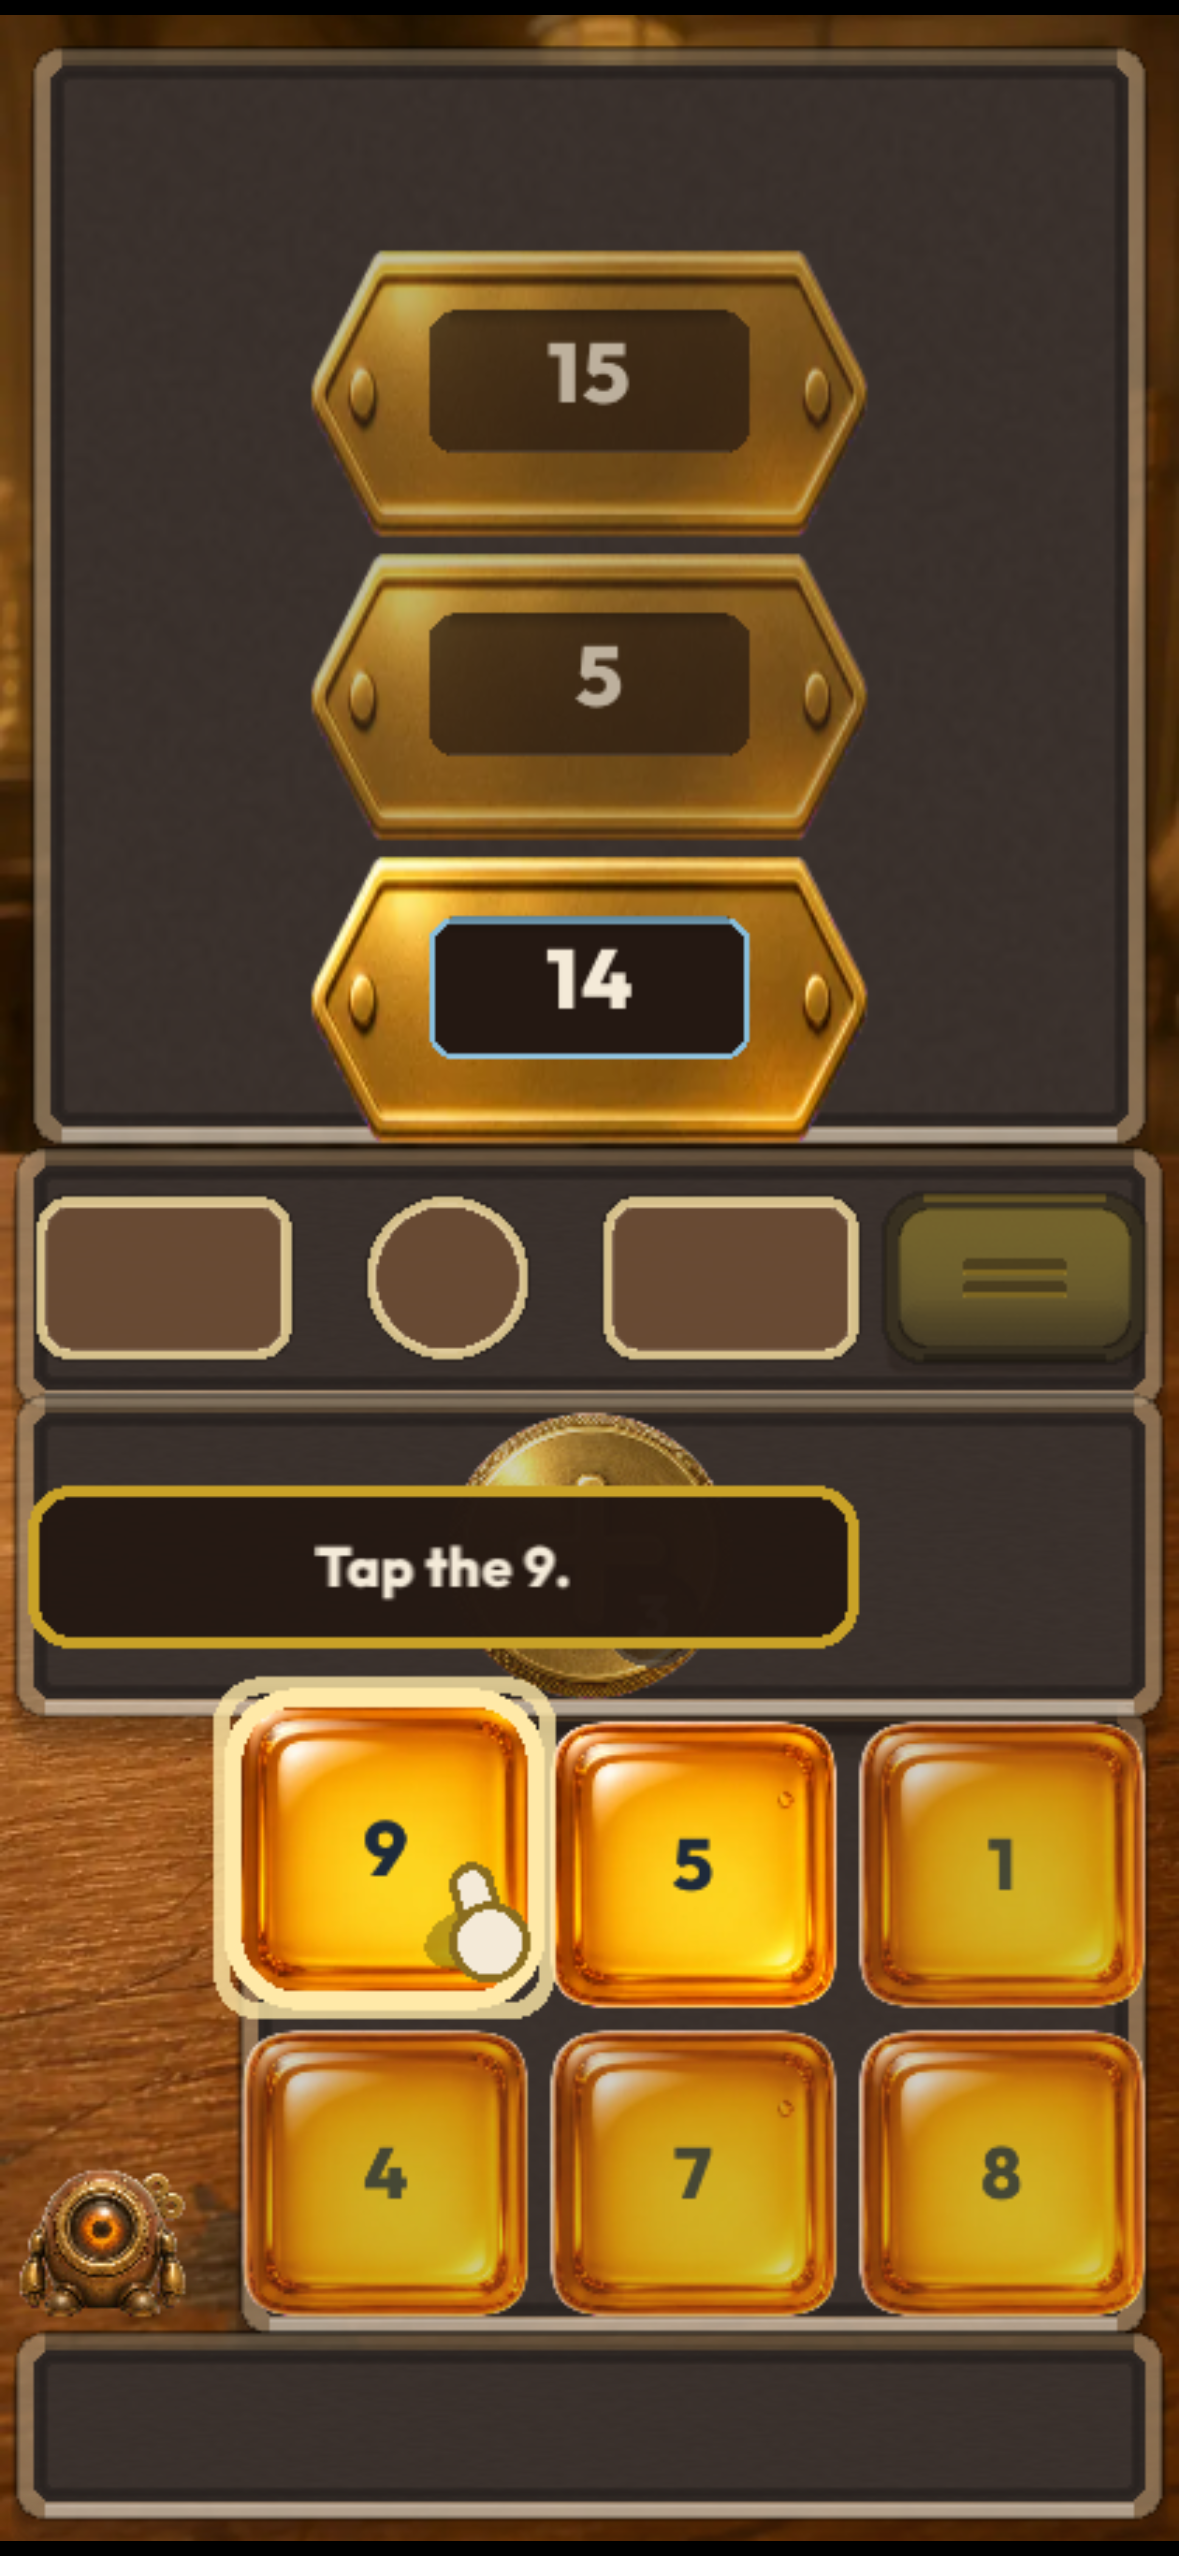
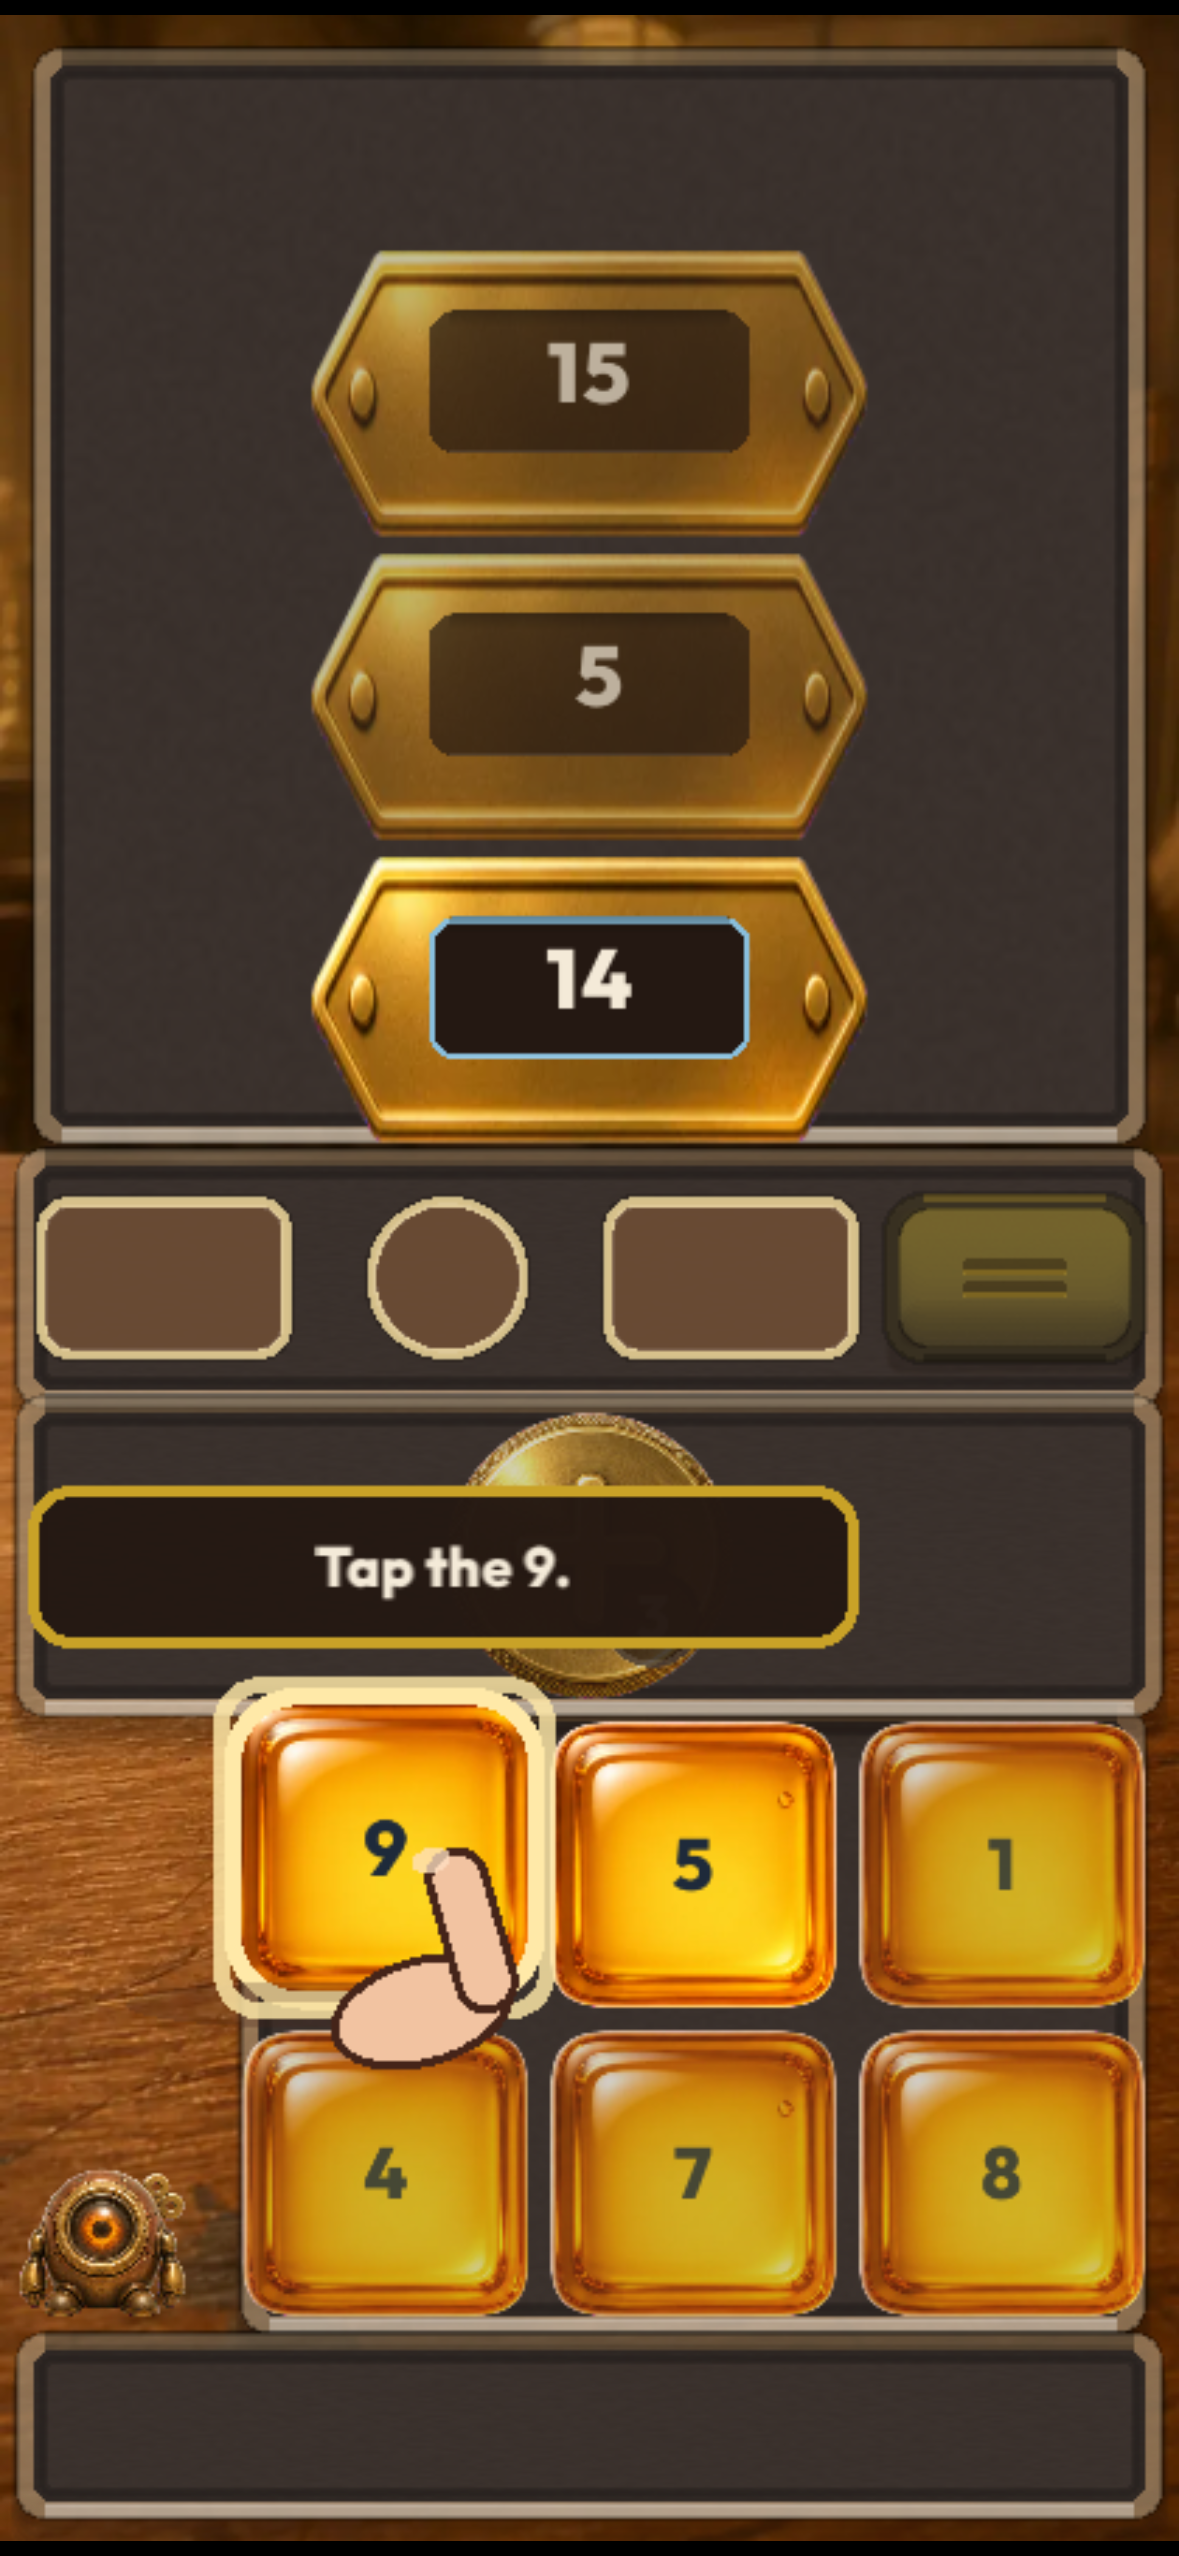
Polish FTUE hand marker and contact shadow

Changed region(s): [[0.2137, 0.7109, 0.458, 0.8345]]

diff --git a/src/renderer/renderer.ts b/src/renderer/renderer.ts
@@ -1264,13 +1264,7 @@ export class Renderer {
       const index = s.tiles.findIndex((tile) => tile.id === id);
       if (index < 0) continue;
       const slot = poolSlot(index, pool, board.grid);
-      const shadow = new Graphics()
-      .ellipse(rect.x + rect.width * 0.2, rect.y + rect.height - 1, rect.width * 0.6, 8)
-      .fill({ color: PALETTE.handOutline, alpha: cue.shadowAlpha });
-    shadow.zIndex = BOARD_BANDS.status + 19;
-    this.root.addChild(this.entry(shadow, BOARD_BANDS.status));
-
-    const ring = new Graphics()
+      const ring = new Graphics()
         .roundRect(slot.x - 5 * pulse, slot.y - 5 * pulse, slot.width + 10 * pulse, slot.height + 10 * pulse, 10)
         .stroke({ width: 3, color: PALETTE.highlight, alpha: 0.8 });
       ring.eventMode = "none";
@@ -1426,6 +1420,12 @@ export class Renderer {
     if (!rect) return;
 
     const cue = teachCueSample(rect, this.teachCueMs, DESIGN.width);
+    const shadow = new Graphics()
+      .ellipse(rect.x + rect.width * 0.2, rect.y + rect.height - 1, rect.width * 0.6, 8)
+      .fill({ color: PALETTE.handOutline, alpha: cue.shadowAlpha });
+    shadow.zIndex = BOARD_BANDS.status + 19;
+    this.root.addChild(this.entry(shadow, BOARD_BANDS.status));
+
     const ring = new Graphics()
       .roundRect(rect.x - 7, rect.y - cue.lift - 7, rect.width + 14, rect.height + 14, 14)
       .stroke({ width: 6, color: PALETTE.brassLit, alpha: cue.ringAlpha });
@@ -1434,9 +1434,9 @@ export class Renderer {
 
     // A compact human hand silhouette; the fingertip lands on the live control.
     const hand = new Container();
-    hand.addChild(new Graphics().ellipse(-30, -1, 70, 36).fill(PALETTE.handFill).stroke({ width: 3, color: PALETTE.handOutline }));
+    hand.addChild(new Graphics().ellipse(-20, 0, 32, 18).fill(PALETTE.handFill).stroke({ width: 3, color: PALETTE.handOutline }));
     hand.addChild(new Graphics().roundRect(-5, -52, 20, 58, 10).fill(PALETTE.handFill).stroke({ width: 3, color: PALETTE.handOutline }));
-    hand.addChild(new Graphics().ellipse(-2, -51, 14, 9).fill({ color: PALETTE.handHighlight, alpha: 0.75 }));
+    hand.addChild(new Graphics().ellipse(-2, -51, 7, 4.5).fill({ color: PALETTE.handHighlight, alpha: 0.75 }));
     hand.position.set(cue.handX, cue.handY);
     hand.rotation = -0.28;
     hand.zIndex = BOARD_BANDS.status + 22;

diff --git a/src/renderer/teach-cue.ts b/src/renderer/teach-cue.ts
@@ -25,8 +25,8 @@ export function teachCueSample(target: Rect, elapsedMs: number, surfaceWidth = 4
     scale: 1.055 + breath * 0.015,
     ringAlpha: 0.72 + breath * 0.28,
     shadowAlpha: 0.24 + breath * 0.08,
-    handX: target.x + target.width * 0.78,
-    handY: target.y + target.height * 0.78 - 5 - breath * 5,
+    handX: target.x + target.width * 0.82,
+    handY: target.y + target.height * 0.98 - breath * 5,
     plaque: { x: plaqueX, y: plaqueY, width: plaqueWidth, height: 54 },
   };
 }

diff --git a/src/renderer/layout.ts b/src/renderer/layout.ts
@@ -68,6 +68,11 @@ export const PALETTE = {
   /** Digits on the tokens: cream, drawn from the paper (§9.2). */
   tokenInk: 0xf4ead8,
 
+  /** Warm, silhouette-first hand marker colors from the FTUE cue concept. */
+  handFill: 0xf2c3a1,
+  handOutline: 0x452419,
+  handHighlight: 0xffe1c4,
+
   /*
    * INK ON PAPER — text drawn on the background or on a light panel. Distinct
    * from tokenInk on purpose: the two grounds are opposite, so one colour
